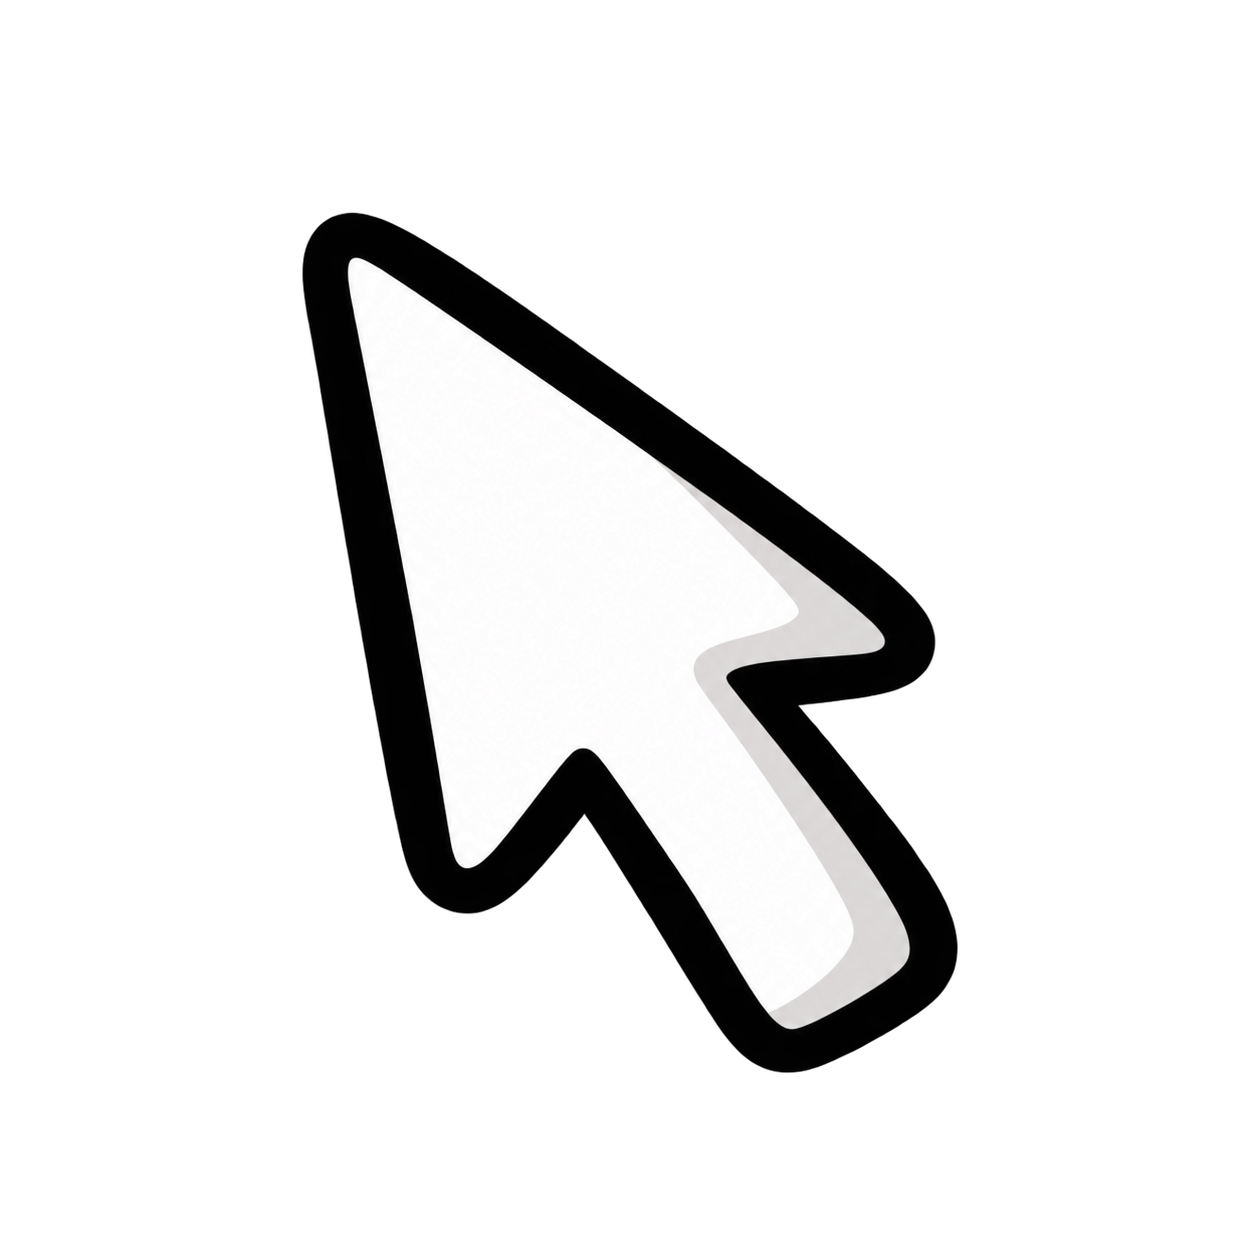
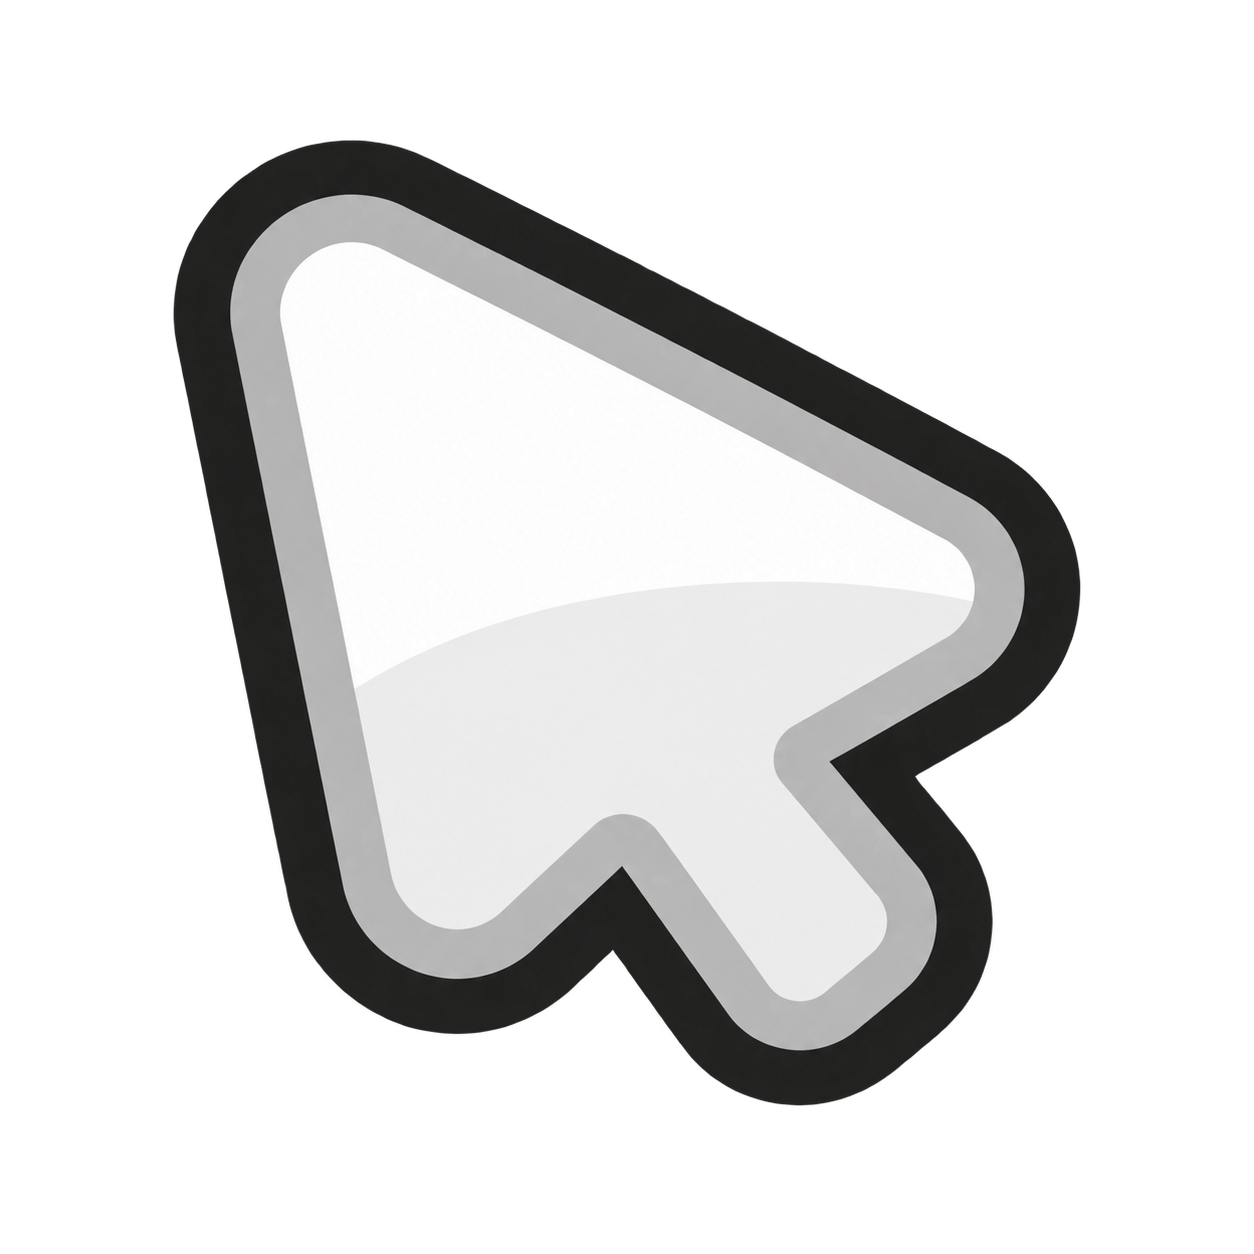
Стрілка як звичайний курсор
Нова намальована стрілка від клієнта стає звичайним курсором замість
простого пальця. Решта станів без змін: зірочки на клікабельному,
промені при натисканні, знак на вимкненому, долоня на стрічці тем.

Простий палець більше не використовується — лишився в _source, бо
може знадобитися, якщо зірочки на посиланнях виявляться зайвими.

Гаряча точка рахувалася тим самим способом: скрипт бере верхівку
зв'язної форми, а не верх кадру.

Changed region(s): [[0.1244, 0.0933, 0.8708, 0.9019]]

diff --git a/app/globals.css b/app/globals.css
@@ -416,9 +416,8 @@
 }
 
 /* ── Курсори ──────────────────────────────────────────────────────────
-   Намальовані рукавички замість системних. Звичайний курсор — простий
-   палець, а зірочки лишилися ознакою того, що на це можна натиснути:
-   системної стрілки на сайті немає взагалі.
+   Намальовані кадри замість системних. Звичайний курсор — стрілка,
+   а зірочки на пальці означають, що на це можна натиснути.
 
    Числа після url() — гаряча точка в пікселях; вони й розміри кадрів
    задаються в CURSOR_SPECS у scripts/prepare-assets.py, тож міняти
@@ -433,14 +432,14 @@
   @layer base {
     body {
       cursor:
-        url("../assets/cursors/pointer.png") 12 3,
+        url("../assets/cursors/default.png") 8 1,
         default;
       cursor:
         image-set(
-            url("../assets/cursors/pointer.png") 1x,
-            url("../assets/cursors/pointer-2x.png") 2x
+            url("../assets/cursors/default.png") 1x,
+            url("../assets/cursors/default-2x.png") 2x
           )
-          12 3,
+          8 1,
         default;
     }
 

diff --git a/scripts/prepare-assets.py b/scripts/prepare-assets.py
@@ -171,11 +171,11 @@ def copy_social() -> None:
 # у кадрах із зірочками чи знаком вона займає меншу частку висоти.
 # Гарячі точки — верхівка рукавички, а не декору над нею.
 #
-# Стрілки (_source/cursors/default.png) тут навмисно немає: звичайним
-# курсором тепер усюди палець, а зірочки лишилися ознакою клікабельного.
-# Файл лежить у _source на випадок, якщо стрілку захочуть повернути.
+# Простого пальця (_source/cursors/pointer.png) тут навмисно немає:
+# звичайним курсором стала стрілка, а зірочки лишилися ознакою
+# клікабельного. Файл лежить у _source, якщо палець захочуть повернути.
 CURSOR_SPECS = {
-    "pointer": (25, 0.470, 0.087),
+    "default": (30, 0.280, 0.030),
     "cta": (40, 0.450, 0.245),
     "active": (37, 0.380, 0.230),
     "not-allowed": (30, 0.500, 0.330),

diff --git a/README.md b/README.md
@@ -162,15 +162,14 @@ Outfit, Fredoka, Baloo та більшість «дитячих» шрифтів
 тягнеться суцільна смуга. На тачскрін не вмикаються: там `pointermove`
 приходить під час скролу.
 
-**Курсори.** П'ять намальованих кадрів замість системних: палець
+**Курсори.** П'ять намальованих кадрів замість системних: стрілка
 (звичайний), палець із зірочками (усе клікабельне), палець із
 променями (натиснуто), палець зі знаком (вимкнений контрол), розкрита
 долоня (стрічку тем можна тягнути).
 
-Системної стрілки на сайті немає взагалі — звичайним курсором усюди
-палець, а ознакою клікабельного стали зірочки. Намальована стрілка
-лежить у `_source/cursors/default.png`, якщо її колись захочуть
-повернути: досить додати рядок у `CURSOR_SPECS`.
+Простий палець без зірочок лежить у `_source/cursors/pointer.png` і
+зараз не використовується — щоб повернути, досить рядка в
+`CURSOR_SPECS` і посилання в CSS.
 
 Розміри й гарячі точки живуть у `CURSOR_SPECS` у `prepare-assets.py`,
 а в `globals.css` повторені числами — `cursor` не вміє відсотків, тож
